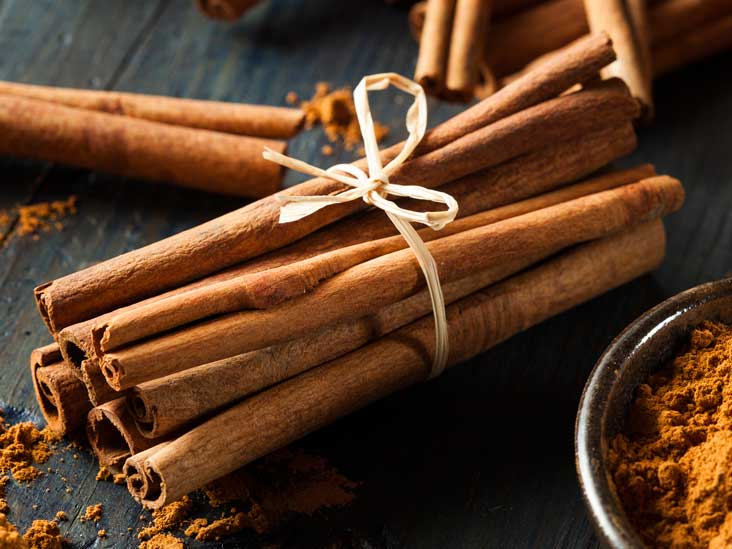
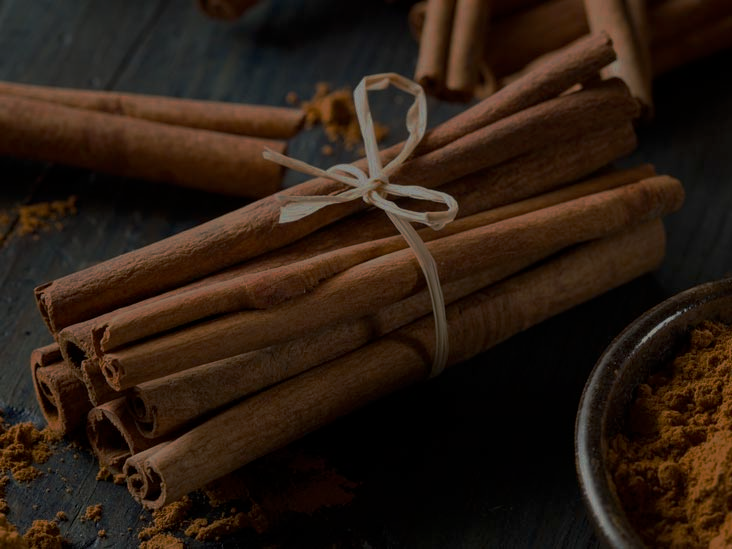
Improved SEO and made the background image darker for better text contrast

diff --git a/html/contact.html b/html/contact.html
@@ -78,9 +78,9 @@
     </header>
     <div class="d-block d-md-none mt-5 pt-5">
       <div class="sm-company-name pl-4 py-4">
-        <h1>Colombo 7</h1>
-        <h5 class="cinnamon-gardens">CINNAMON GARDENS</h5>
-        <h5 class="taste-of-sri-lanka">A Taste of Sri Lanka</h5>
+        <h2 class="colombo-7">Colombo 7</h2>
+        <h5>CINNAMON GARDENS</h5>
+        <h5>A Taste of Sri Lanka</h5>
       </div>
     </div>
     <div class="fixed-top d-none d-md-block">
@@ -88,9 +88,19 @@
     </div>
     <div class="page-contents">
       <h1 class="page-title contact-title">Contact Us</h1>
-      <hr class="d-block d-md-none mb-4 mt-5" />
+      <hr class="d-block d-md-none mt-5" />
+      <div class="contact-text text-center my-4">
+        <h4>
+          12 The Broadway
+          <br />
+          Old Amersham
+          <br />
+          HP7 0HP
+        </h4>
+        <h4>Tel: 07859 820368</h4>
+      </div>
       <div class="row contact-icon-wrap text-center">
-        <div class="col-md-3">
+        <div class="col-3">
           <a
             href="https://www.facebook.com/Cinnamon-Gardens-100497095289324/"
             target="_blank"
@@ -99,7 +109,7 @@
             <i class="fab fa-facebook-square contact-link"></i
           ></a>
         </div>
-        <div class="col-md-3">
+        <div class="col-3">
           <a
             href="https://www.instagram.com/cinnamon_gardens/"
             target="_blank"
@@ -108,7 +118,7 @@
             <i class="fab fa-instagram-square contact-link"></i
           ></a>
         </div>
-        <div class="col-md-3">
+        <div class="col-3">
           <a
             href="https://api.whatsapp.com/send?phone=447859820368&fbclid=IwAR0xpRqwca5SmqvrgUYzZoOGUQbS6Cbg0u-9VW7J8-N1ESZ5bcSBFM9123o"
             target="_blank"
@@ -117,7 +127,7 @@
             <i class="fab fa-whatsapp-square contact-link"></i
           ></a>
         </div>
-        <div class="col-md-3">
+        <div class="col-3">
           <a
             href="mailto:cinnamongardencol7@gmail.com"
             target="_blank"
@@ -139,5 +149,16 @@
         <a href="/html/contact.html" class="font-weight-bold">Contact Us</a>
       </span>
     </div>
+    <footer class="fixed-bottom footer">
+      <h6>
+        <a
+          href="https://github.com/kel-source/cinnamon-gardens"
+          class="open-source-link"
+          target="_blank"
+          >Open-source code</a
+        >
+        by Kathryn E. Lloyd
+      </h6>
+    </footer>
   </body>
 </html>

diff --git a/index.html b/index.html
@@ -75,17 +75,17 @@
       <div class="col-md-3">
         <div class="d-block d-md-none mt-5 pt-5">
           <div class="sm-company-name pl-4 py-4">
-            <h1>Colombo 7</h1>
-            <h5 class="cinnamon-gardens">CINNAMON GARDENS</h5>
-            <h5 class="taste-of-sri-lanka">A Taste of Sri Lanka</h5>
+            <h1 class="colombo-7">Colombo 7</h1>
+            <h5>CINNAMON GARDENS</h5>
+            <h5>A Taste of Sri Lanka</h5>
           </div>
         </div>
         <div class="fixed-top d-none d-md-block">
           <img src="/media/logo.jpg" class="lg-logo" title="Home" />
           <div class="lg-company-name pl-4 py-4">
-            <h1>Colombo 7</h1>
-            <h5 class="cinnamon-gardens">CINNAMON GARDENS</h5>
-            <h5 class="taste-of-sri-lanka">A Taste of Sri Lanka</h5>
+            <h1 class="colombo-7">Colombo 7</h1>
+            <h5>CINNAMON GARDENS</h5>
+            <h5>A Taste of Sri Lanka</h5>
           </div>
         </div>
       </div>
@@ -156,18 +156,6 @@
         </div>
       </div>
     </div>
-
-    <footer class="footer">
-      <h6>
-        <a
-          href="https://github.com/kel-source/cinnamon-gardens"
-          class="open-source-link"
-          target="_blank"
-          >Open-source code</a
-        >
-        by Kathryn E. Lloyd
-      </h6>
-    </footer>
 
     <script src="src/app.js"></script>
   </body>

diff --git a/src/style.css b/src/style.css
@@ -14,11 +14,16 @@ body {
   font-family: var(--content-font);
 }
 h1,
+h2,
 h4,
 h5,
 button,
 nav {
   font-family: var(--heading-font);
+}
+
+h5 {
+  font-size: 15px;
 }
 
 h6 {
@@ -46,9 +51,8 @@ footer {
   background-attachment: fixed;
   color: #e2e2e0;
 }
-.cinnamon-gardens,
-.taste-of-sri-lanka {
-  font-size: 15px;
+.colombo-7 {
+  font-size: 40px;
 }
 .col-md-3 {
   color: white;
@@ -73,7 +77,7 @@ footer {
 
 .contact-link {
   color: var(--accent-color);
-  font-size: 12em;
+  font-size: 15vw;
 }
 .contact-link:hover {
   transition: 1.25s;
@@ -148,12 +152,13 @@ footer {
     float: left;
   }
 
-  .contact-title {
+  .contact-title,
+  .contact-text {
     color: white;
     text-align: center;
   }
   .contact-icon-wrap {
-    padding-top: 100px;
+    padding-top: 50px;
   }
   .contact-link {
     color: white;

diff --git a/html/menu.html b/html/menu.html
@@ -77,9 +77,9 @@
       <div class="col-md-3">
         <div class="d-block d-md-none mt-5 pt-5">
           <div class="sm-company-name pl-4 py-4">
-            <h1>Colombo 7</h1>
-            <h5 class="cinnamon-gardens">CINNAMON GARDENS</h5>
-            <h5 class="taste-of-sri-lanka">A Taste of Sri Lanka</h5>
+            <h2 class="colombo-7">Colombo 7</h2>
+            <h5>CINNAMON GARDENS</h5>
+            <h5>A Taste of Sri Lanka</h5>
           </div>
           <h1 class="page-title mt-2 mb-3 ml-4 pt-4 pl-1">Menu</h1>
         </div>

diff --git a/html/about.html b/html/about.html
@@ -75,9 +75,9 @@
       <div class="col-md-3">
         <div class="d-block d-md-none mt-5 pt-5">
           <div class="sm-company-name pl-4 py-4">
-            <h1>Colombo 7</h1>
-            <h5 class="cinnamon-gardens">CINNAMON GARDENS</h5>
-            <h5 class="taste-of-sri-lanka">A Taste of Sri Lanka</h5>
+            <h2 class="colombo-7">Colombo 7</h2>
+            <h5>CINNAMON GARDENS</h5>
+            <h5>A Taste of Sri Lanka</h5>
           </div>
         </div>
         <div class="fixed-top d-none d-md-block">
